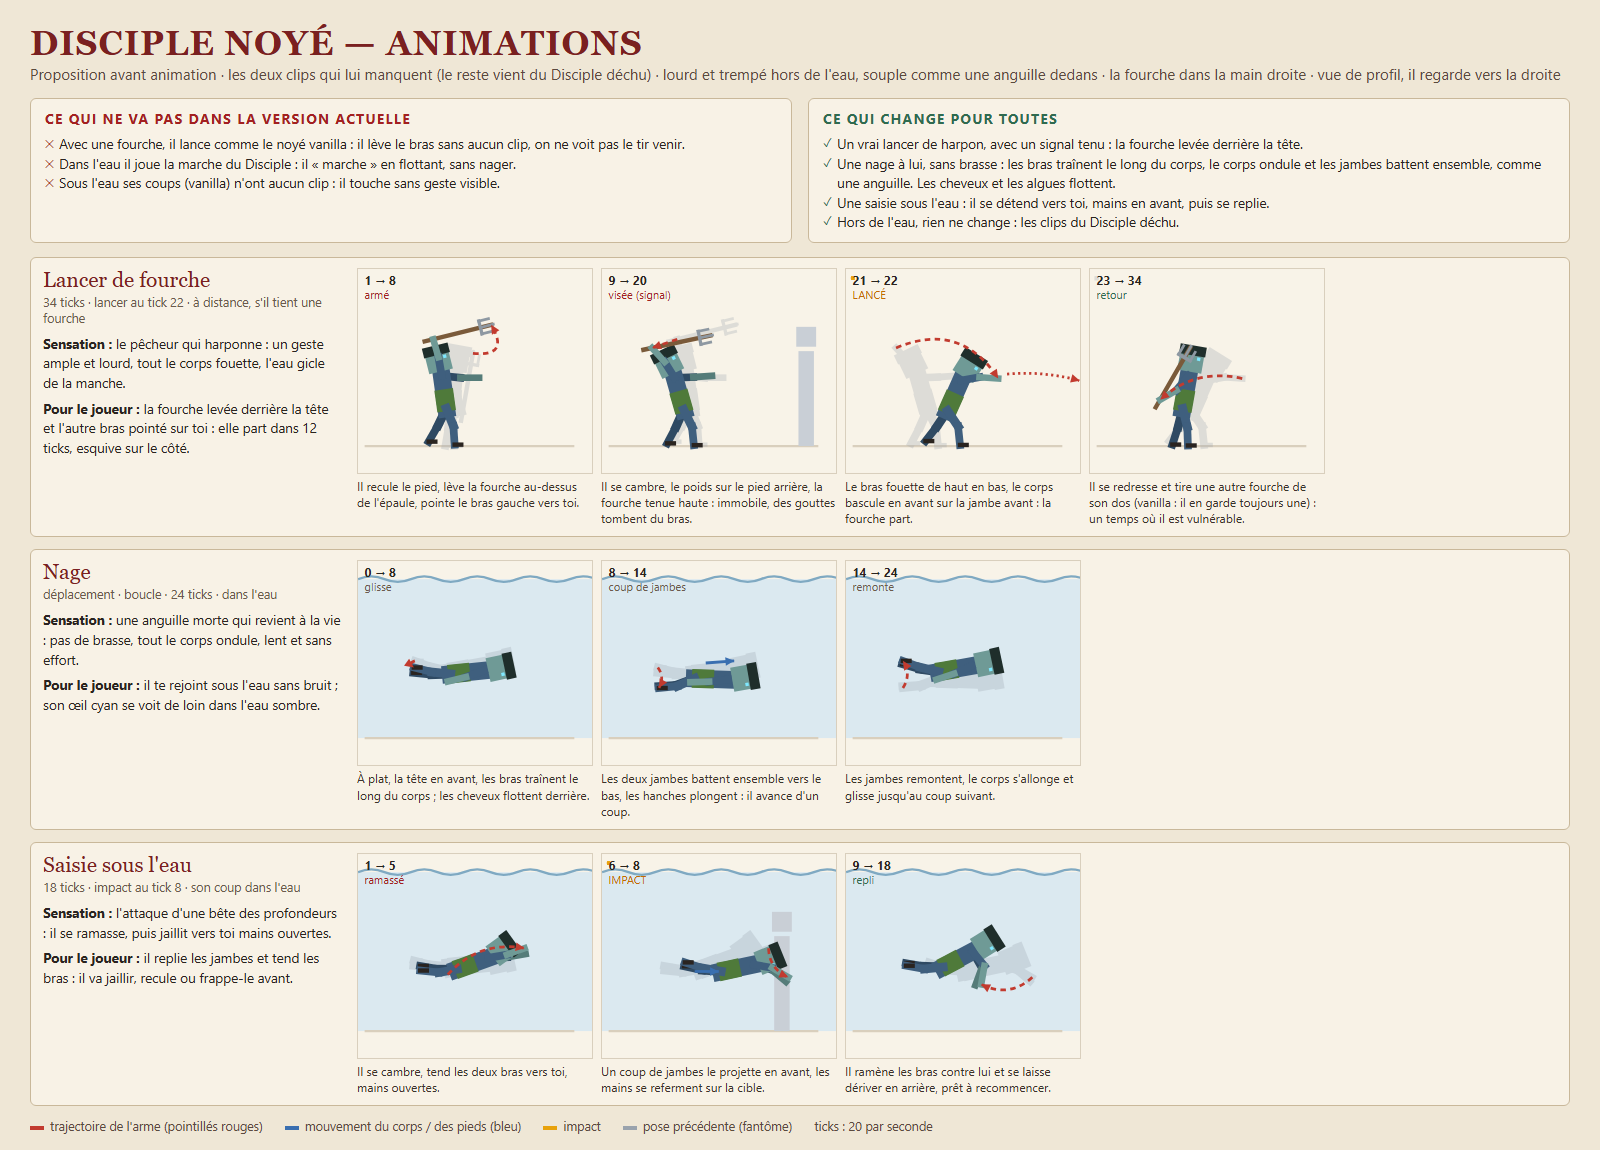
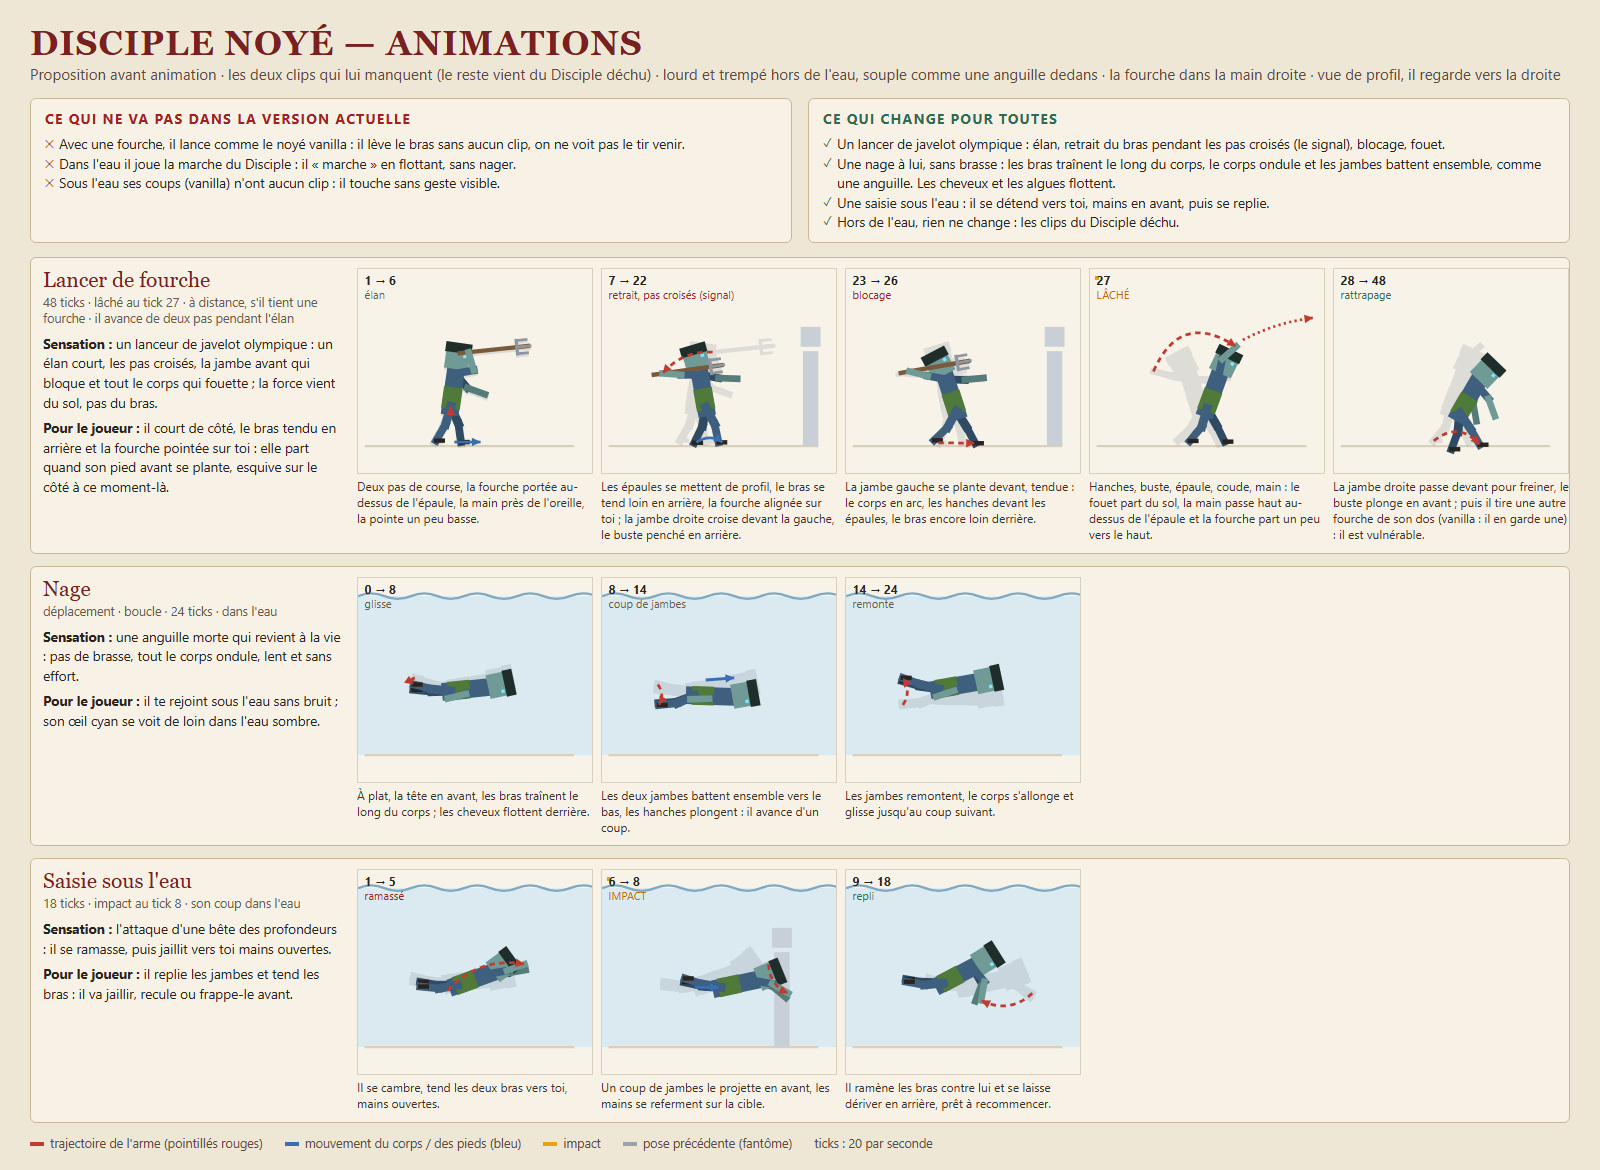
Noye storyboard: the fork throw follows an Olympic javelin throw

diff --git a/docs/mobs/boards/noye.html b/docs/mobs/boards/noye.html
@@ -2,15 +2,19 @@
 <html lang="fr"><head><meta charset="utf-8"><title>Disciple noyé — animations</title>
 <link rel="stylesheet" href="style.css"><script src="board.js"></script></head><body><script>
 // The fork is in the right hand (the near arm). Swimming, the torso lies flat (lean about 90) facing right.
-const STAND = {lean: 6, head: 4, aR: 10, fR: 16, w: 170, aL: 4, fL: 8, tF: 8, sF: 2, tB: -6, sB: -4};
-const RAISE = {lean: -8, head: -6, hx: -4, aR: 190, fR: 196, w: 104, aL: 84, fL: 90, tF: 22, sF: 4, tB: -26,
-  sB: -14};
-const COIL = {lean: -16, head: -10, hx: -10, hy: 1, aR: 212, fR: 222, w: 102, aL: 92, fL: 94, tF: 26, sF: 6,
-  tB: -24, sB: -16};
-const THROWN = {lean: 24, head: 8, hx: 8, hy: 2, aR: 100, fR: 86, aL: -30, fL: -10, tF: 34, sF: 6, tB: -34,
-  sB: -24};
-const REACH_BACK = {lean: 10, head: 0, aR: -40, fR: -60, w: 150, aL: -10, fL: 0, tF: 14, sF: 2, tB: -14, sB: -8};
-const SWIM_A = {lean: 84, head: -6, hy: -24, aR: -70, fR: -76, aL: -80, fL: -84, tF: -96, sF: -104, tB: -88,
+// The throw follows an Olympic javelin throw: the carry, the withdrawal during cross-over steps, the block of the
+// left (far) leg, the whip from the hips up, the recovery step. Near leg = right, far leg = left.
+const CARRY = {lean: 8, head: 0, aR: 100, fR: 196, w: 96, aL: 40, fL: 70, tF: 26, sF: 8, tB: -22, sB: -30};
+const CARRY_2 = {...CARRY, hy: -2, tF: -16, sF: -30, tB: 24, sB: 8};
+const CROSS = {lean: -10, head: -6, hx: 10, hy: -1, aR: -90, fR: -94, w: 98, aL: 80, fL: 88, tF: 28, sF: 12,
+  tB: -10, sB: -26};
+const BLOCK = {lean: -18, head: -10, hx: 16, hy: 2, aR: -100, fR: -104, w: 100, aL: 88, fL: 96, tF: -28, sF: -46,
+  tB: 32, sB: 28};
+const WHIP = {lean: 20, head: 6, hx: 22, aR: 168, fR: 132, aL: -20, fL: -30, tF: -16, sF: -40, tB: 30, sB: 26};
+const RECOVER = {lean: 30, head: 14, hx: 30, hy: 4, aR: 40, fR: 20, aL: -10, fL: 10, tF: 34, sF: 30, tB: -6,
+  sB: -20};
+const REACH_BACK = {lean: 10, head: 0, hx: 30, aR: -40, fR: -60, w: 150, aL: -10, fL: 0, tF: 14, sF: 2, tB: -14,
+  sB: -8};const SWIM_A = {lean: 84, head: -6, hy: -24, aR: -70, fR: -76, aL: -80, fL: -84, tF: -96, sF: -104, tB: -88,
   sB: -96};
 const SWIM_B = {lean: 92, head: -12, hy: -20, aR: -84, fR: -88, aL: -88, fL: -90, tF: -66, sF: -84, tB: -70,
   sB: -86};
@@ -36,32 +40,38 @@ sheet({
     'Sous l\'eau ses coups (vanilla) n\'ont aucun clip : il touche sans geste visible.',
   ],
   fix: [
-    'Un vrai lancer de harpon, avec un signal tenu : la fourche levée derrière la tête.',
+    'Un lancer de javelot olympique : élan, retrait du bras pendant les pas croisés (le signal), blocage, fouet.',
     'Une nage à lui, sans brasse : les bras traînent le long du corps, le corps ondule et les jambes battent ensemble, '
       + 'comme une anguille. Les cheveux et les algues flottent.',
     'Une saisie sous l\'eau : il se détend vers toi, mains en avant, puis se replie.',
     'Hors de l\'eau, rien ne change : les clips du Disciple déchu.',
   ],
   anims: [
-    {name: 'Lancer de fourche', meta: '34 ticks · lancer au tick 22 · à distance, s\'il tient une fourche',
-      feel: 'le pêcheur qui harponne : un geste ample et lourd, tout le corps fouette, l\'eau gicle de la manche.',
-      read: 'la fourche levée derrière la tête et l\'autre bras pointé sur toi : elle part dans 12 ticks, esquive '
-        + 'sur le côté.',
+    {name: 'Lancer de fourche', meta: '48 ticks · lâché au tick 27 · à distance, s\'il tient une fourche · '
+      + 'il avance de deux pas pendant l\'élan',
+      feel: 'un lanceur de javelot olympique : un élan court, les pas croisés, la jambe avant qui bloque et tout le '
+        + 'corps qui fouette ; la force vient du sol, pas du bras.',
+      read: 'il court de côté, le bras tendu en arrière et la fourche pointée sur toi : elle part quand son pied '
+        + 'avant se plante, esquive sur le côté à ce moment-là.',
       frames: [
-        {ticks: '1 → 8', phase: 'armé', phaseColor: '#a32020', pose: RAISE, from: STAND, trace: 'tip', bend: 30,
-          note: 'Il recule le pied, lève la fourche au-dessus de l\'épaule, pointe le bras gauche vers toi.'},
-        {ticks: '9 → 20', phase: 'visée (signal)', phaseColor: '#a32020', pose: COIL, from: RAISE, trace: 'handR',
-          bend: 0, target: 172, note: 'Il se cambre, le poids sur le pied arrière, la fourche tenue haute : '
-            + 'immobile, des gouttes tombent du bras.'},
-        {ticks: '21 → 22', phase: 'LANCÉ', phaseColor: '#c46a00', pose: THROWN, from: COIL, weapon: 'none',
-          trace: 'handR', bend: -40, impact: true,
-          arrows: [{at: 'handR', from: [8, -4], to: [74, 2], color: '#c23b2f', dash: '2 3', bend: -6}],
-          note: 'Le bras fouette de haut en bas, le corps bascule en avant sur la jambe avant : la fourche part.'},
-        {ticks: '23 → 34', phase: 'retour', phaseColor: '#2f6b4f', pose: REACH_BACK, from: THROWN, weapon: 'fork',
-          trace: 'handR', bend: 20, note: 'Il se redresse et tire une autre fourche de son dos (vanilla : il en '
-            + 'garde toujours une) : un temps où il est vulnérable.'},
-      ]},
-    {name: 'Nage', meta: 'déplacement · boucle · 24 ticks · dans l\'eau', weaponless: true,
+        {ticks: '1 → 6', phase: 'élan', pose: CARRY_2, from: CARRY, trace: 'hip', bend: 0,
+          arrows: [{at: 'footB', from: [-6, 0], to: [18, 0], color: '#3a6fb0'}],
+          note: 'Deux pas de course, la fourche portée au-dessus de l\'épaule, la main près de l\'oreille, la pointe '
+            + 'un peu basse.'},
+        {ticks: '7 → 22', phase: 'retrait, pas croisés (signal)', phaseColor: '#a32020', pose: CROSS, from: CARRY_2,
+          trace: 'handR', bend: 12, target: 176, arrows: [{at: 'footF', from: [-20, 0], to: [4, 0], color: '#3a6fb0',
+            bend: -8}], note: 'Les épaules se mettent de profil, le bras se tend loin en arrière, la fourche alignée '
+            + 'sur toi ; la jambe droite croise devant la gauche, le buste penché en arrière.'},        {ticks: '23 → 26', phase: 'blocage', phaseColor: '#a32020', pose: BLOCK, from: CROSS, trace: 'footB',
+          bend: 0, target: 176, note: 'La jambe gauche se plante devant, tendue : le corps en arc, les hanches '
+            + 'devant les épaules, le bras encore loin derrière.'},
+        {ticks: '27', phase: 'LÂCHÉ', phaseColor: '#c46a00', pose: WHIP, from: BLOCK, weapon: 'none',
+          trace: 'handR', bend: -46, impact: true,
+          arrows: [{at: 'handR', from: [6, -6], to: [70, -26], color: '#c23b2f', dash: '2 3', bend: -6}],
+          note: 'Hanches, buste, épaule, coude, main : le fouet part du sol, la main passe haut au-dessus de '
+            + 'l\'épaule et la fourche part un peu vers le haut.'},
+        {ticks: '28 → 48', phase: 'rattrapage', phaseColor: '#2f6b4f', pose: RECOVER, from: WHIP, weapon: 'none',
+          trace: 'footF', bend: -20, note: 'La jambe droite passe devant pour freiner, le buste plonge en avant ; '
+            + 'puis il tire une autre fourche de son dos (vanilla : il en garde une) : il est vulnérable.'},      ]},    {name: 'Nage', meta: 'déplacement · boucle · 24 ticks · dans l\'eau', weaponless: true,
       feel: 'une anguille morte qui revient à la vie : pas de brasse, tout le corps ondule, lent et sans effort.',
       read: 'il te rejoint sous l\'eau sans bruit ; son œil cyan se voit de loin dans l\'eau sombre.',
       frames: [
